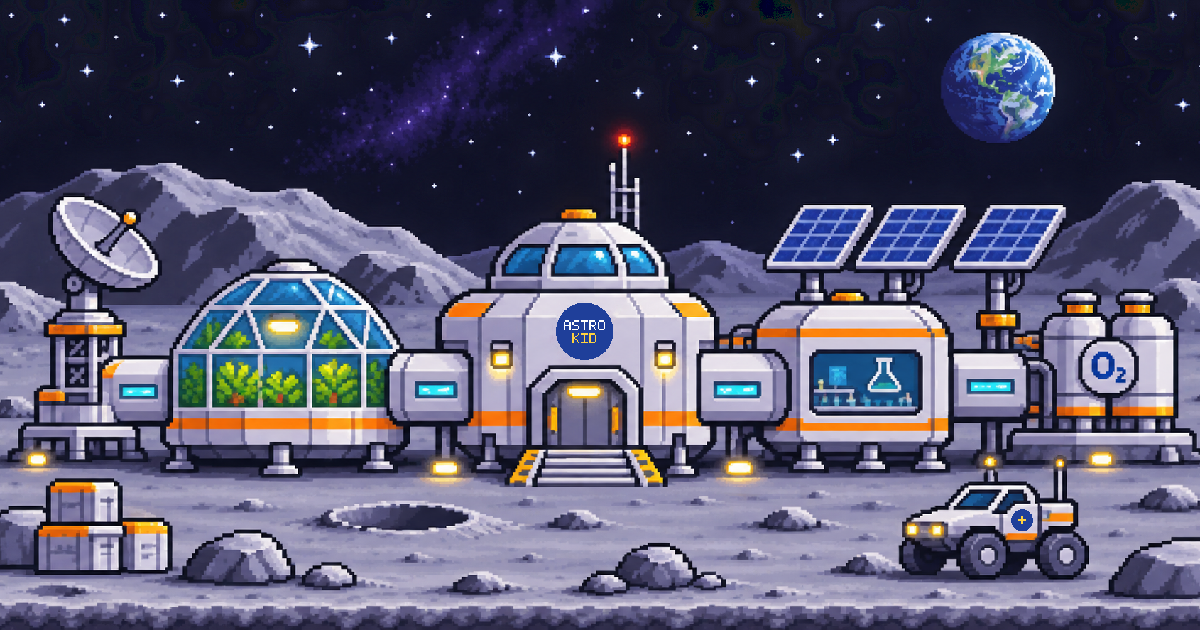
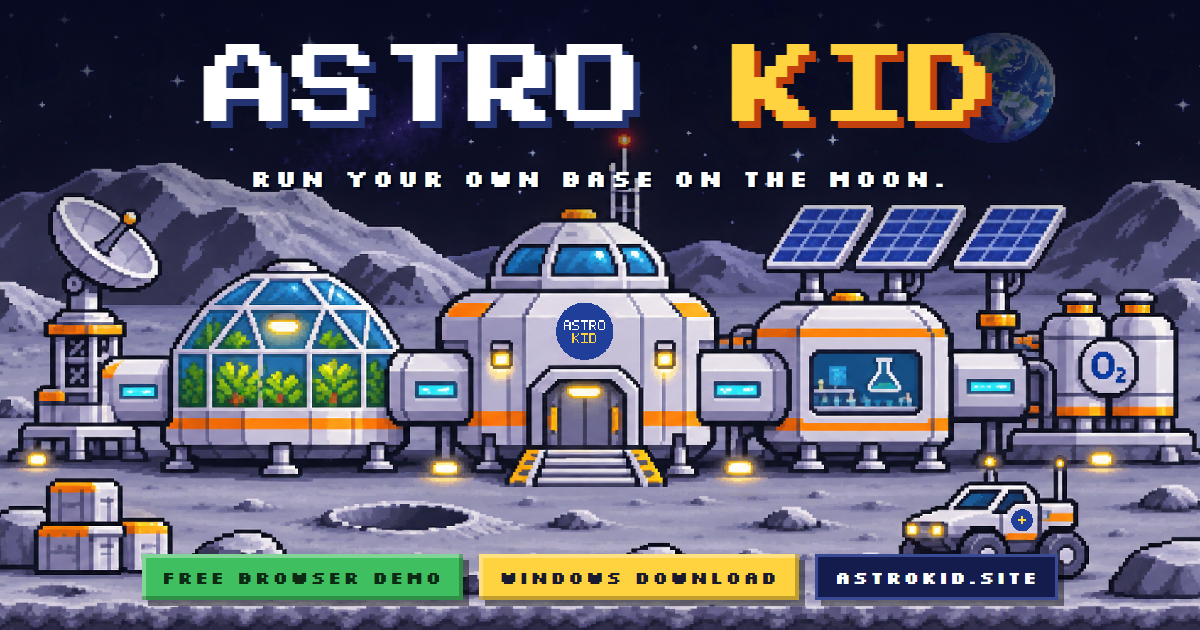
SEO: titles, descriptions, canonical, Open Graph and Twitter cards, JSON-LD, web manifest, sitemap
- branded 1200x630 share image
- structured data: WebSite, VideoGame, SoftwareApplication, breadcrumbs
- sitemap adds the demo page; robots.txt cleaned up

diff --git a/game/about.html b/game/about.html
@@ -3,30 +3,28 @@
   <head>
     <meta charset="UTF-8" />
     <meta name="viewport" content="width=device-width, initial-scale=1.0" />
-    <title>About Astro Kid — Story, Missions, Crew &amp; World</title>
-    <meta
-      name="description"
-      content="Explore the story behind Astro Kid: six linked lunar missions, the crew (The Commander, NOVA, Dr. Karim), the seven-region lunar map, base systems, technology tree and gear."
-    />
-    <!-- TODO: replace example.com with your real domain once purchased -->
-    <link rel="canonical" href="https://example.com/about.html" />
-    <meta property="og:title" content="About Astro Kid — Story, Missions, Crew &amp; World" />
-    <meta
-      property="og:description"
-      content="See how Astro Kid teaches real space-mission science across six missions, two dark caves, four outpost systems and 30+ tools."
-    />
+    <title>About Astro Kid — Missions, Crew, World Map &amp; Technology Tree</title>
+    <meta name="description" content="Six linked lunar missions, the crew, the seven-region world map, the outpost systems and the Technology Tree: everything about the Astro Kid space game." />
+    <meta name="robots" content="index,follow,max-image-preview:large" />
+    <meta name="author" content="Abdallah Hany" />
+    <link rel="canonical" href="https://astrokid.site/about.html" />
+    <link rel="manifest" href="/site.webmanifest" />
+    <meta property="og:site_name" content="Astro Kid" />
+    <meta property="og:locale" content="en_US" />
     <meta property="og:type" content="website" />
-    <meta property="og:url" content="https://example.com/about.html" />
-    <meta property="og:image" content="https://example.com/og-cover.png" />
+    <meta property="og:title" content="About Astro Kid — Missions, Crew, World Map &amp; Technology Tree" />
+    <meta property="og:description" content="Everything about Astro Kid: six linked lunar missions, the crew (the Commander, NOVA and Dr. Karim), the seven-region world map, the outpost systems, the Technology Tree and the toolbox." />
+    <meta property="og:url" content="https://astrokid.site/about.html" />
+    <meta property="og:image" content="https://astrokid.site/og-cover.png" />
     <meta property="og:image:width" content="1200" />
     <meta property="og:image:height" content="630" />
+    <meta property="og:image:alt" content="Astro Kid: a pixel-art lunar outpost under the stars, with the title and the words Free browser demo and Windows download" />
     <meta name="twitter:card" content="summary_large_image" />
-    <meta name="twitter:title" content="About Astro Kid — Story, Missions, Crew &amp; World" />
-    <meta
-      name="twitter:description"
-      content="Explore the story, crew, world map, outpost systems and 30+ tools behind Astro Kid."
-    />
-    <meta name="twitter:image" content="https://example.com/og-cover.png" />
+    <meta name="twitter:title" content="About Astro Kid — Missions, Crew, World Map &amp; Technology Tree" />
+    <meta name="twitter:description" content="Everything about Astro Kid: six linked lunar missions, the crew (the Commander, NOVA and Dr. Karim), the seven-region world map, the outpost systems, the Technology Tree and the toolbox." />
+    <meta name="twitter:image" content="https://astrokid.site/og-cover.png" />
+    <meta name="twitter:image:alt" content="Astro Kid: a pixel-art lunar outpost under the stars" />
+    <script type="application/ld+json">{"@context":"https://schema.org","@graph":[{"@type":"AboutPage","name":"About Astro Kid","url":"https://astrokid.site/about.html","about":{"@id":"https://astrokid.site/#game"},"isPartOf":{"@id":"https://astrokid.site/#website"}},{"@type":"VideoGame","@id":"https://astrokid.site/#game","name":"Astro Kid","alternateName":"Astro Kid: Lunar Outpost","url":"https://astrokid.site/","image":"https://astrokid.site/og-cover.png","description":"A free pixel-art space survival and science game for kids aged 7 to 12. Run a lunar outpost, manage oxygen, power and time, and learn the real trade-offs behind space missions.","genre":["Educational","Simulation","Survival","Exploration"],"gamePlatform":["Web browser","Windows"],"applicationCategory":"GameApplication","operatingSystem":"Windows 10, Windows 11, Web browser","playMode":"SinglePlayer","inLanguage":"en","isAccessibleForFree":true,"audience":{"@type":"PeopleAudience","suggestedMinAge":7,"suggestedMaxAge":12},"author":{"@type":"Person","name":"Abdallah Hany","url":"https://github.com/abdallah244"},"publisher":{"@type":"Person","name":"Abdallah Hany","url":"https://github.com/abdallah244"},"offers":{"@type":"Offer","price":"0","priceCurrency":"USD","availability":"https://schema.org/InStock"}},{"@type":"BreadcrumbList","itemListElement":[{"@type":"ListItem","position":1,"name":"Home","item":"https://astrokid.site/"},{"@type":"ListItem","position":2,"name":"About","item":"https://astrokid.site/about.html"}]}]}</script>
     <meta name="theme-color" content="#060920" />
     <link rel="icon" type="image/x-icon" href="./favicon.ico" />
     <link rel="icon" type="image/png" sizes="32x32" href="./favicon-32.png" />

diff --git a/game/index.html b/game/index.html
@@ -3,30 +3,28 @@
   <head>
     <meta charset="UTF-8" />
     <meta name="viewport" content="width=device-width, initial-scale=1.0" />
-    <title>Astro Kid — Learn Space Science by Playing</title>
-    <meta
-      name="description"
-      content="Survive on the Moon. Manage oxygen, power and time. Learn the real trade-offs behind every space mission, without opening a textbook."
-    />
-    <!-- TODO: replace example.com with your real domain once purchased -->
-    <link rel="canonical" href="https://example.com/" />
-    <meta property="og:title" content="Astro Kid — Learn Space Science by Playing" />
-    <meta
-      property="og:description"
-      content="Survive on the Moon. Manage oxygen, power and time. Learn the real trade-offs behind every space mission, without opening a textbook."
-    />
+    <title>Astro Kid — Learn Space Science by Playing | Free Pixel-Art Moon Game</title>
+    <meta name="description" content="A free pixel-art space survival game for kids 7 to 12. Run a base on the Moon, manage oxygen and power, and learn real space science. Play free in your browser." />
+    <meta name="robots" content="index,follow,max-image-preview:large" />
+    <meta name="author" content="Abdallah Hany" />
+    <link rel="canonical" href="https://astrokid.site/" />
+    <link rel="manifest" href="/site.webmanifest" />
+    <meta property="og:site_name" content="Astro Kid" />
+    <meta property="og:locale" content="en_US" />
     <meta property="og:type" content="website" />
-    <meta property="og:url" content="https://example.com/" />
-    <meta property="og:image" content="https://example.com/og-cover.png" />
+    <meta property="og:title" content="Astro Kid — Learn Space Science by Playing | Free Pixel-Art Moon Game" />
+    <meta property="og:description" content="Run your own base on the Moon. Manage oxygen, power and time, and learn the real trade-offs behind every space mission. Free browser demo and Windows download." />
+    <meta property="og:url" content="https://astrokid.site/" />
+    <meta property="og:image" content="https://astrokid.site/og-cover.png" />
     <meta property="og:image:width" content="1200" />
     <meta property="og:image:height" content="630" />
+    <meta property="og:image:alt" content="Astro Kid: a pixel-art lunar outpost under the stars, with the title and the words Free browser demo and Windows download" />
     <meta name="twitter:card" content="summary_large_image" />
-    <meta name="twitter:title" content="Astro Kid — Learn Space Science by Playing" />
-    <meta
-      name="twitter:description"
-      content="Play the free demo in your browser, or get the full game for your desktop."
-    />
-    <meta name="twitter:image" content="https://example.com/og-cover.png" />
+    <meta name="twitter:title" content="Astro Kid — Learn Space Science by Playing | Free Pixel-Art Moon Game" />
+    <meta name="twitter:description" content="Run your own base on the Moon. Manage oxygen, power and time, and learn the real trade-offs behind every space mission. Free browser demo and Windows download." />
+    <meta name="twitter:image" content="https://astrokid.site/og-cover.png" />
+    <meta name="twitter:image:alt" content="Astro Kid: a pixel-art lunar outpost under the stars" />
+    <script type="application/ld+json">{"@context":"https://schema.org","@graph":[{"@type":"WebSite","@id":"https://astrokid.site/#website","name":"Astro Kid","url":"https://astrokid.site/","inLanguage":"en","publisher":{"@type":"Person","name":"Abdallah Hany","url":"https://github.com/abdallah244"}},{"@type":"VideoGame","@id":"https://astrokid.site/#game","name":"Astro Kid","alternateName":"Astro Kid: Lunar Outpost","url":"https://astrokid.site/","image":"https://astrokid.site/og-cover.png","description":"A free pixel-art space survival and science game for kids aged 7 to 12. Run a lunar outpost, manage oxygen, power and time, and learn the real trade-offs behind space missions.","genre":["Educational","Simulation","Survival","Exploration"],"gamePlatform":["Web browser","Windows"],"applicationCategory":"GameApplication","operatingSystem":"Windows 10, Windows 11, Web browser","playMode":"SinglePlayer","inLanguage":"en","isAccessibleForFree":true,"audience":{"@type":"PeopleAudience","suggestedMinAge":7,"suggestedMaxAge":12},"author":{"@type":"Person","name":"Abdallah Hany","url":"https://github.com/abdallah244"},"publisher":{"@type":"Person","name":"Abdallah Hany","url":"https://github.com/abdallah244"},"offers":{"@type":"Offer","price":"0","priceCurrency":"USD","availability":"https://schema.org/InStock"}}]}</script>
     <meta name="theme-color" content="#060920" />
     <link rel="icon" type="image/x-icon" href="./favicon.ico" />
     <link rel="icon" type="image/png" sizes="32x32" href="./favicon-32.png" />

diff --git a/game/download.html b/game/download.html
@@ -3,31 +3,28 @@
   <head>
     <meta charset="UTF-8" />
     <meta name="viewport" content="width=device-width, initial-scale=1.0" />
-    <title>Download Astro Kid — Free Windows Installer &amp; Install Guide</title>
-    <meta
-      name="description"
-      content="Download Astro Kid free for Windows 10 and 11 (64-bit). Follow the four-step install guide, verify the SHA-256 checksum, check system requirements, or play the browser demo."
-    />
-    <meta name="robots" content="index,follow" />
-    <!-- TODO: replace example.com with your real domain once purchased -->
-    <link rel="canonical" href="https://example.com/download.html" />
-    <meta property="og:title" content="Download Astro Kid — Free Windows Installer &amp; Install Guide" />
-    <meta
-      property="og:description"
-      content="One small free Windows installer with all lunar missions included, plus a four-step install guide and SHA-256 verification."
-    />
+    <title>Download Astro Kid for Windows — Free Installer &amp; Install Guide</title>
+    <meta name="description" content="Download Astro Kid free for Windows 10 and 11 (64-bit), with a four-step install guide and system requirements, or play the free demo in your browser." />
+    <meta name="robots" content="index,follow,max-image-preview:large" />
+    <meta name="author" content="Abdallah Hany" />
+    <link rel="canonical" href="https://astrokid.site/download.html" />
+    <link rel="manifest" href="/site.webmanifest" />
+    <meta property="og:site_name" content="Astro Kid" />
+    <meta property="og:locale" content="en_US" />
     <meta property="og:type" content="website" />
-    <meta property="og:url" content="https://example.com/download.html" />
-    <meta property="og:image" content="https://example.com/og-cover.png" />
+    <meta property="og:title" content="Download Astro Kid for Windows — Free Installer &amp; Install Guide" />
+    <meta property="og:description" content="Download Astro Kid free for Windows 10 and 11 (64-bit). Four-step install guide, system requirements and SHA-256 checksum, or play the free demo in your browser with no account." />
+    <meta property="og:url" content="https://astrokid.site/download.html" />
+    <meta property="og:image" content="https://astrokid.site/og-cover.png" />
     <meta property="og:image:width" content="1200" />
     <meta property="og:image:height" content="630" />
+    <meta property="og:image:alt" content="Astro Kid: a pixel-art lunar outpost under the stars, with the title and the words Free browser demo and Windows download" />
     <meta name="twitter:card" content="summary_large_image" />
-    <meta name="twitter:title" content="Download Astro Kid — Free Windows Installer &amp; Install Guide" />
-    <meta
-      name="twitter:description"
-      content="Get Astro Kid free for Windows 10 and 11, follow the install guide, or try Level 1 in your browser."
-    />
-    <meta name="twitter:image" content="https://example.com/og-cover.png" />
+    <meta name="twitter:title" content="Download Astro Kid for Windows — Free Installer &amp; Install Guide" />
+    <meta name="twitter:description" content="Download Astro Kid free for Windows 10 and 11 (64-bit). Four-step install guide, system requirements and SHA-256 checksum, or play the free demo in your browser with no account." />
+    <meta name="twitter:image" content="https://astrokid.site/og-cover.png" />
+    <meta name="twitter:image:alt" content="Astro Kid: a pixel-art lunar outpost under the stars" />
+    <script type="application/ld+json">{"@context":"https://schema.org","@graph":[{"@type":"SoftwareApplication","name":"Astro Kid for Windows","url":"https://astrokid.site/download.html","downloadUrl":"https://astrokid.site/download.html","applicationCategory":"GameApplication","operatingSystem":"Windows 10, Windows 11 (64-bit)","softwareVersion":"0.1.0","fileSize":"123 MB","image":"https://astrokid.site/og-cover.png","author":{"@type":"Person","name":"Abdallah Hany","url":"https://github.com/abdallah244"},"isAccessibleForFree":true,"offers":{"@type":"Offer","price":"0","priceCurrency":"USD"},"isPartOf":{"@id":"https://astrokid.site/#game"}},{"@type":"BreadcrumbList","itemListElement":[{"@type":"ListItem","position":1,"name":"Home","item":"https://astrokid.site/"},{"@type":"ListItem","position":2,"name":"Download","item":"https://astrokid.site/download.html"}]}]}</script>
     <meta name="theme-color" content="#060920" />
     <link rel="icon" type="image/x-icon" href="./favicon.ico" />
     <link rel="icon" type="image/png" sizes="32x32" href="./favicon-32.png" />

diff --git a/game/policies.html b/game/policies.html
@@ -3,23 +3,28 @@
   <head>
     <meta charset="UTF-8" />
     <meta name="viewport" content="width=device-width, initial-scale=1.0" />
-    <title>Policies &amp; Terms — Astro Kid</title>
-    <meta
-      name="description"
-      content="Privacy Policy, Terms of Use, and Account Deletion Policy for Astro Kid."
-    />
+    <title>Privacy Policy, Terms of Use &amp; Account Deletion — Astro Kid</title>
+    <meta name="description" content="The Astro Kid Privacy Policy, Terms of Use and Account Deletion Policy: what data is collected, how it is used and how to delete your account." />
     <meta name="robots" content="index,follow" />
-    <!-- TODO: replace example.com with your real domain once purchased -->
-    <link rel="canonical" href="https://example.com/policies.html" />
-    <meta property="og:title" content="Policies &amp; Terms — Astro Kid" />
-    <meta
-      property="og:description"
-      content="Privacy Policy, Terms of Use, and Account Deletion Policy for Astro Kid."
-    />
+    <meta name="author" content="Abdallah Hany" />
+    <link rel="canonical" href="https://astrokid.site/policies.html" />
+    <link rel="manifest" href="/site.webmanifest" />
+    <meta property="og:site_name" content="Astro Kid" />
+    <meta property="og:locale" content="en_US" />
     <meta property="og:type" content="website" />
-    <meta property="og:url" content="https://example.com/policies.html" />
-    <meta property="og:image" content="https://example.com/og-cover.png" />
+    <meta property="og:title" content="Privacy Policy, Terms of Use &amp; Account Deletion — Astro Kid" />
+    <meta property="og:description" content="The Astro Kid Privacy Policy, Terms of Use and Account Deletion Policy: what data is collected, how it is used and how to delete your account." />
+    <meta property="og:url" content="https://astrokid.site/policies.html" />
+    <meta property="og:image" content="https://astrokid.site/og-cover.png" />
+    <meta property="og:image:width" content="1200" />
+    <meta property="og:image:height" content="630" />
+    <meta property="og:image:alt" content="Astro Kid: a pixel-art lunar outpost under the stars, with the title and the words Free browser demo and Windows download" />
     <meta name="twitter:card" content="summary_large_image" />
+    <meta name="twitter:title" content="Privacy Policy, Terms of Use &amp; Account Deletion — Astro Kid" />
+    <meta name="twitter:description" content="The Astro Kid Privacy Policy, Terms of Use and Account Deletion Policy: what data is collected, how it is used and how to delete your account." />
+    <meta name="twitter:image" content="https://astrokid.site/og-cover.png" />
+    <meta name="twitter:image:alt" content="Astro Kid: a pixel-art lunar outpost under the stars" />
+    <script type="application/ld+json">{"@context":"https://schema.org","@graph":[{"@type":"BreadcrumbList","itemListElement":[{"@type":"ListItem","position":1,"name":"Home","item":"https://astrokid.site/"},{"@type":"ListItem","position":2,"name":"Policies","item":"https://astrokid.site/policies.html"}]}]}</script>
     <meta name="theme-color" content="#060920" />
     <link rel="icon" type="image/x-icon" href="./favicon.ico" />
     <link rel="icon" type="image/png" sizes="32x32" href="./favicon-32.png" />

diff --git a/game/play.html b/game/play.html
@@ -3,18 +3,28 @@
   <head>
     <meta charset="UTF-8" />
     <meta name="viewport" content="width=device-width, initial-scale=1.0" />
-    <title>Astro Kid — Lunar Outpost</title>
-    <meta
-      name="description"
-      content="Explore a lunar outpost, collect real geological samples, research material processing, and stabilize your base on the Moon."
-    />
-    <meta property="og:title" content="Astro Kid — Lunar Outpost" />
-    <meta
-      property="og:description"
-      content="2D Lunar Exploration & Resource Science Game built with Phaser 3 and Vite."
-    />
+    <title>Play Astro Kid Free in Your Browser — Early Demo</title>
+    <meta name="description" content="Play the free Astro Kid demo in your browser, no account needed. Explore the lunar outpost, mine rock samples and build your first machine." />
+    <meta name="robots" content="index,follow,max-image-preview:large" />
+    <meta name="author" content="Abdallah Hany" />
+    <link rel="canonical" href="https://astrokid.site/play.html" />
+    <link rel="manifest" href="/site.webmanifest" />
+    <meta property="og:site_name" content="Astro Kid" />
+    <meta property="og:locale" content="en_US" />
     <meta property="og:type" content="website" />
-    <meta property="og:image" content="./favicon-512.png" />
+    <meta property="og:title" content="Play Astro Kid Free in Your Browser — Early Demo" />
+    <meta property="og:description" content="Play the free Astro Kid demo in your browser, no account needed. An early, unfinished version of the game." />
+    <meta property="og:url" content="https://astrokid.site/play.html" />
+    <meta property="og:image" content="https://astrokid.site/og-cover.png" />
+    <meta property="og:image:width" content="1200" />
+    <meta property="og:image:height" content="630" />
+    <meta property="og:image:alt" content="Astro Kid: a pixel-art lunar outpost under the stars, with the title and the words Free browser demo and Windows download" />
+    <meta name="twitter:card" content="summary_large_image" />
+    <meta name="twitter:title" content="Play Astro Kid Free in Your Browser — Early Demo" />
+    <meta name="twitter:description" content="Play the free Astro Kid demo in your browser, no account needed. An early, unfinished version of the game." />
+    <meta name="twitter:image" content="https://astrokid.site/og-cover.png" />
+    <meta name="twitter:image:alt" content="Astro Kid: a pixel-art lunar outpost under the stars" />
+    <script type="application/ld+json">{"@context":"https://schema.org","@graph":[{"@type":"WebPage","name":"Play Astro Kid in your browser","url":"https://astrokid.site/play.html","about":{"@id":"https://astrokid.site/#game"}},{"@type":"BreadcrumbList","itemListElement":[{"@type":"ListItem","position":1,"name":"Home","item":"https://astrokid.site/"},{"@type":"ListItem","position":2,"name":"Play the demo","item":"https://astrokid.site/play.html"}]}]}</script>
     <link rel="icon" type="image/x-icon" href="./favicon.ico" />
     <link rel="icon" type="image/png" sizes="32x32" href="./favicon-32.png" />
     <link rel="icon" type="image/png" sizes="16x16" href="./favicon-16.png" />
